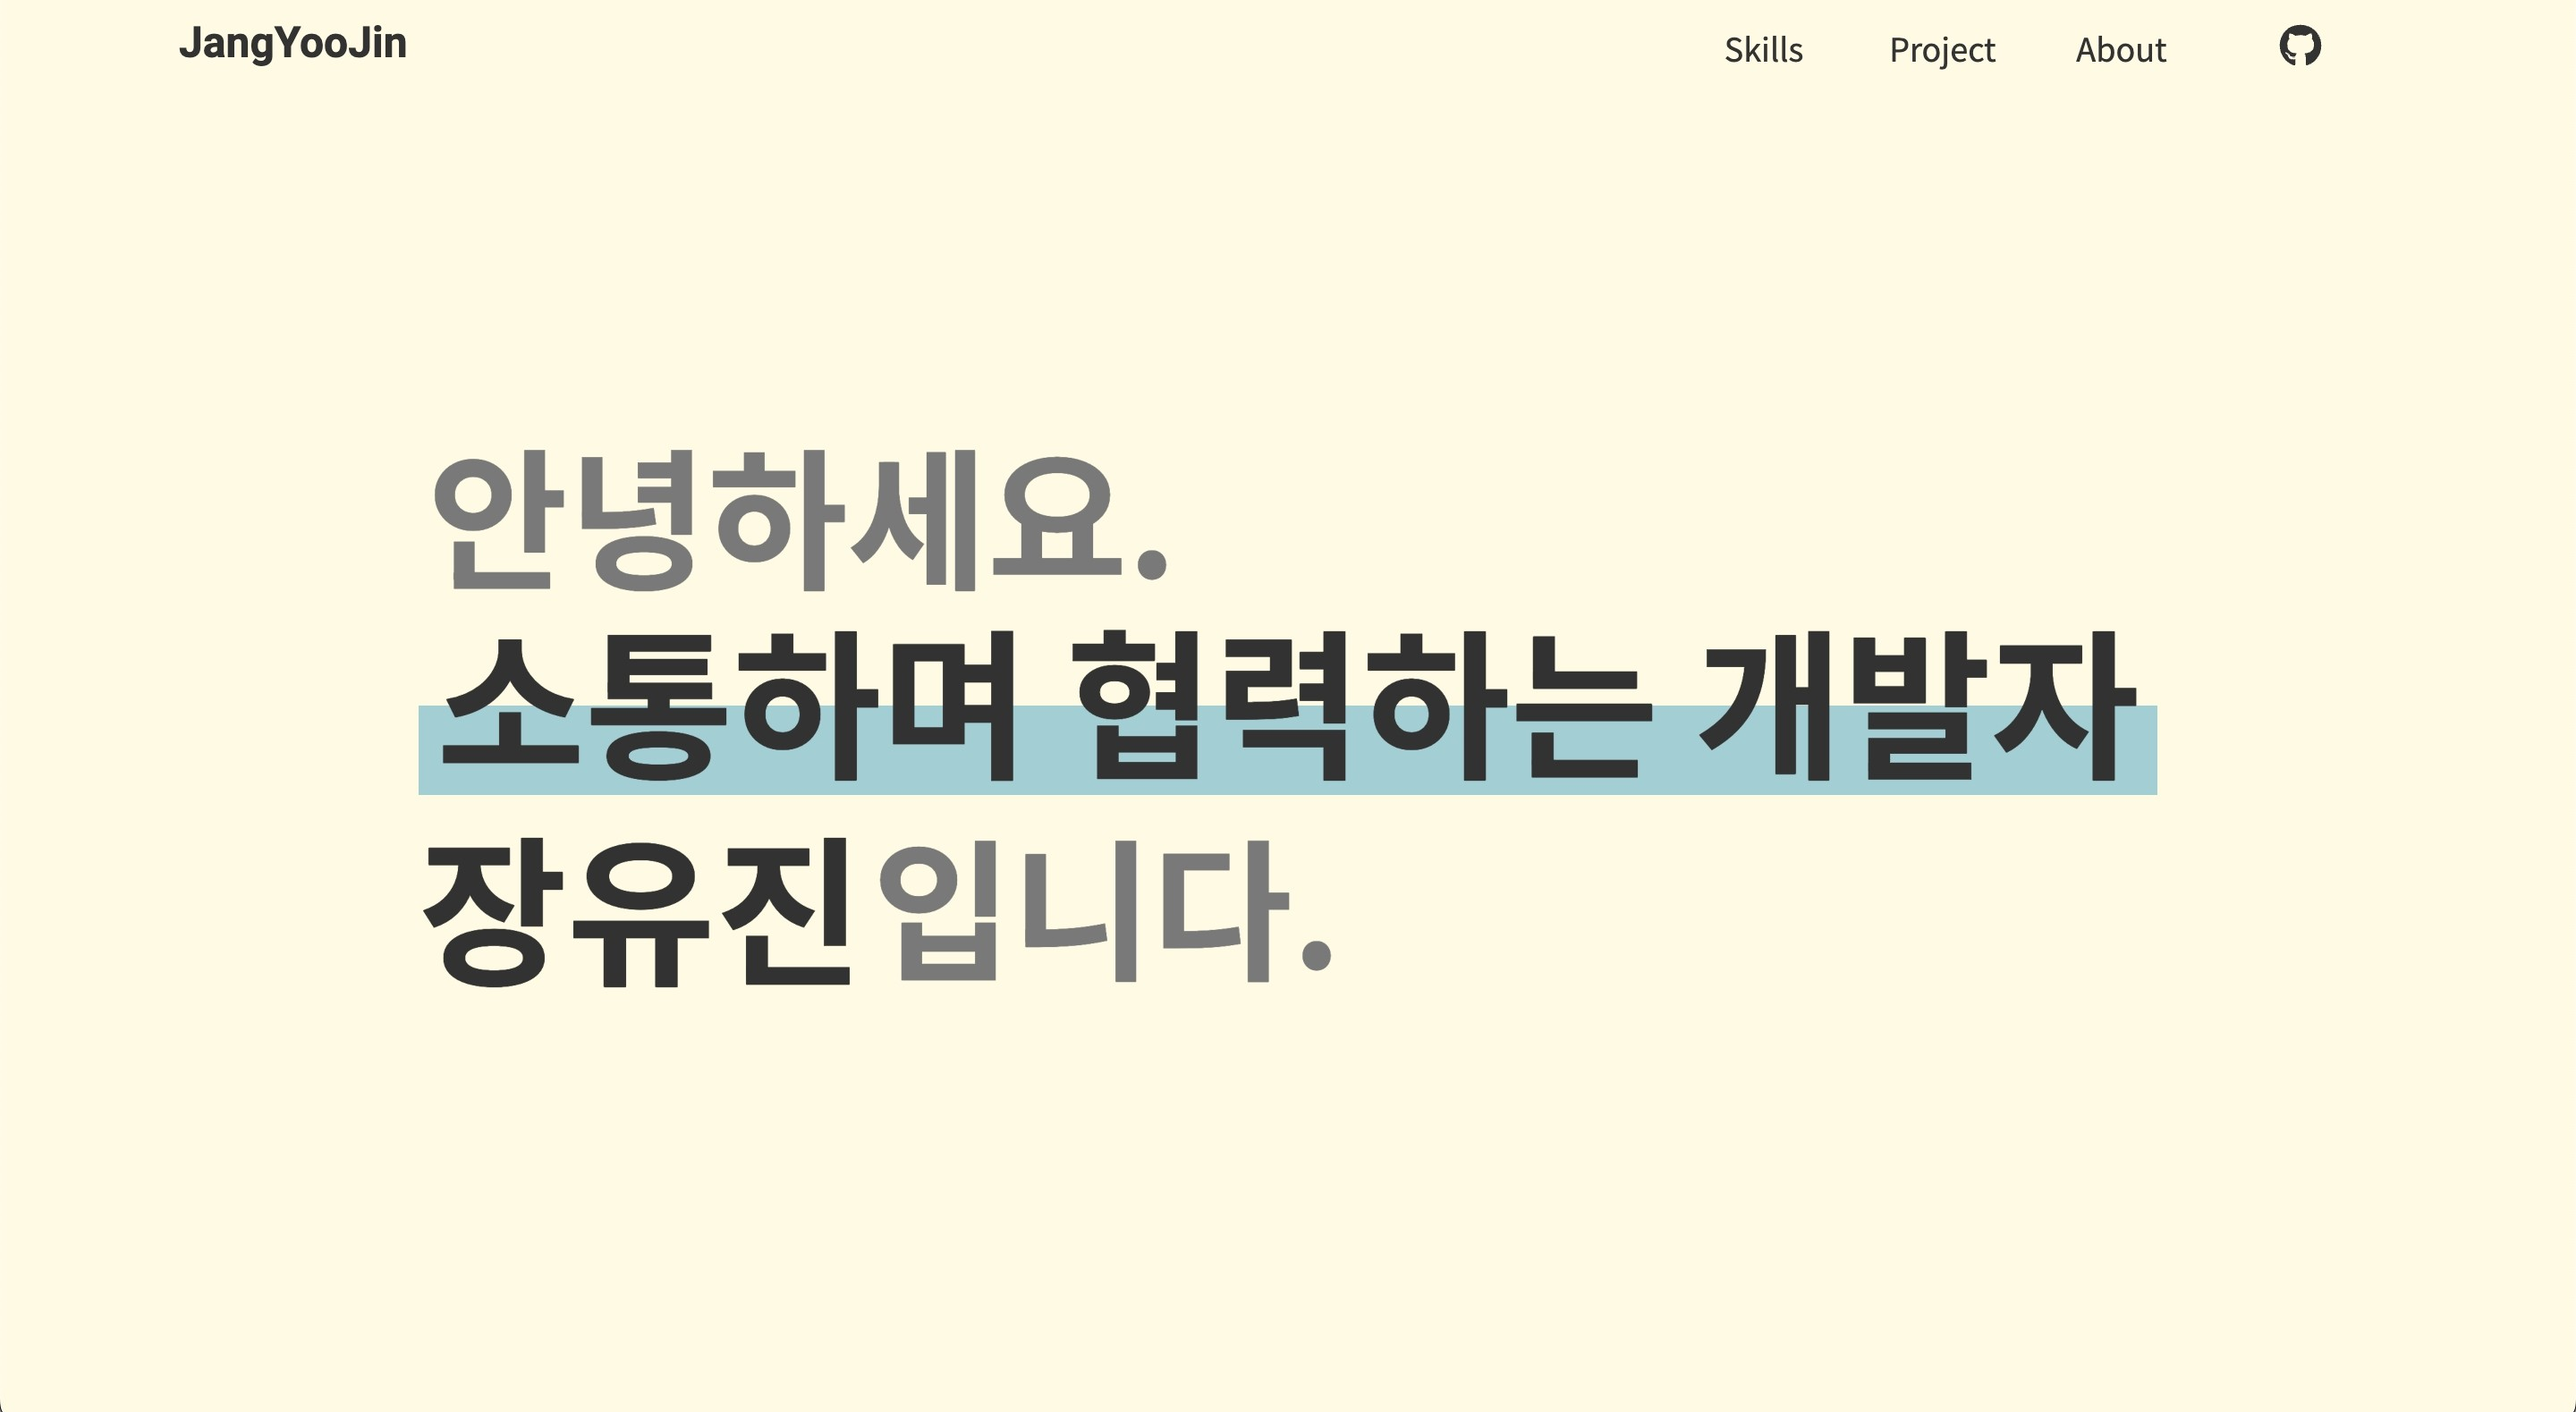
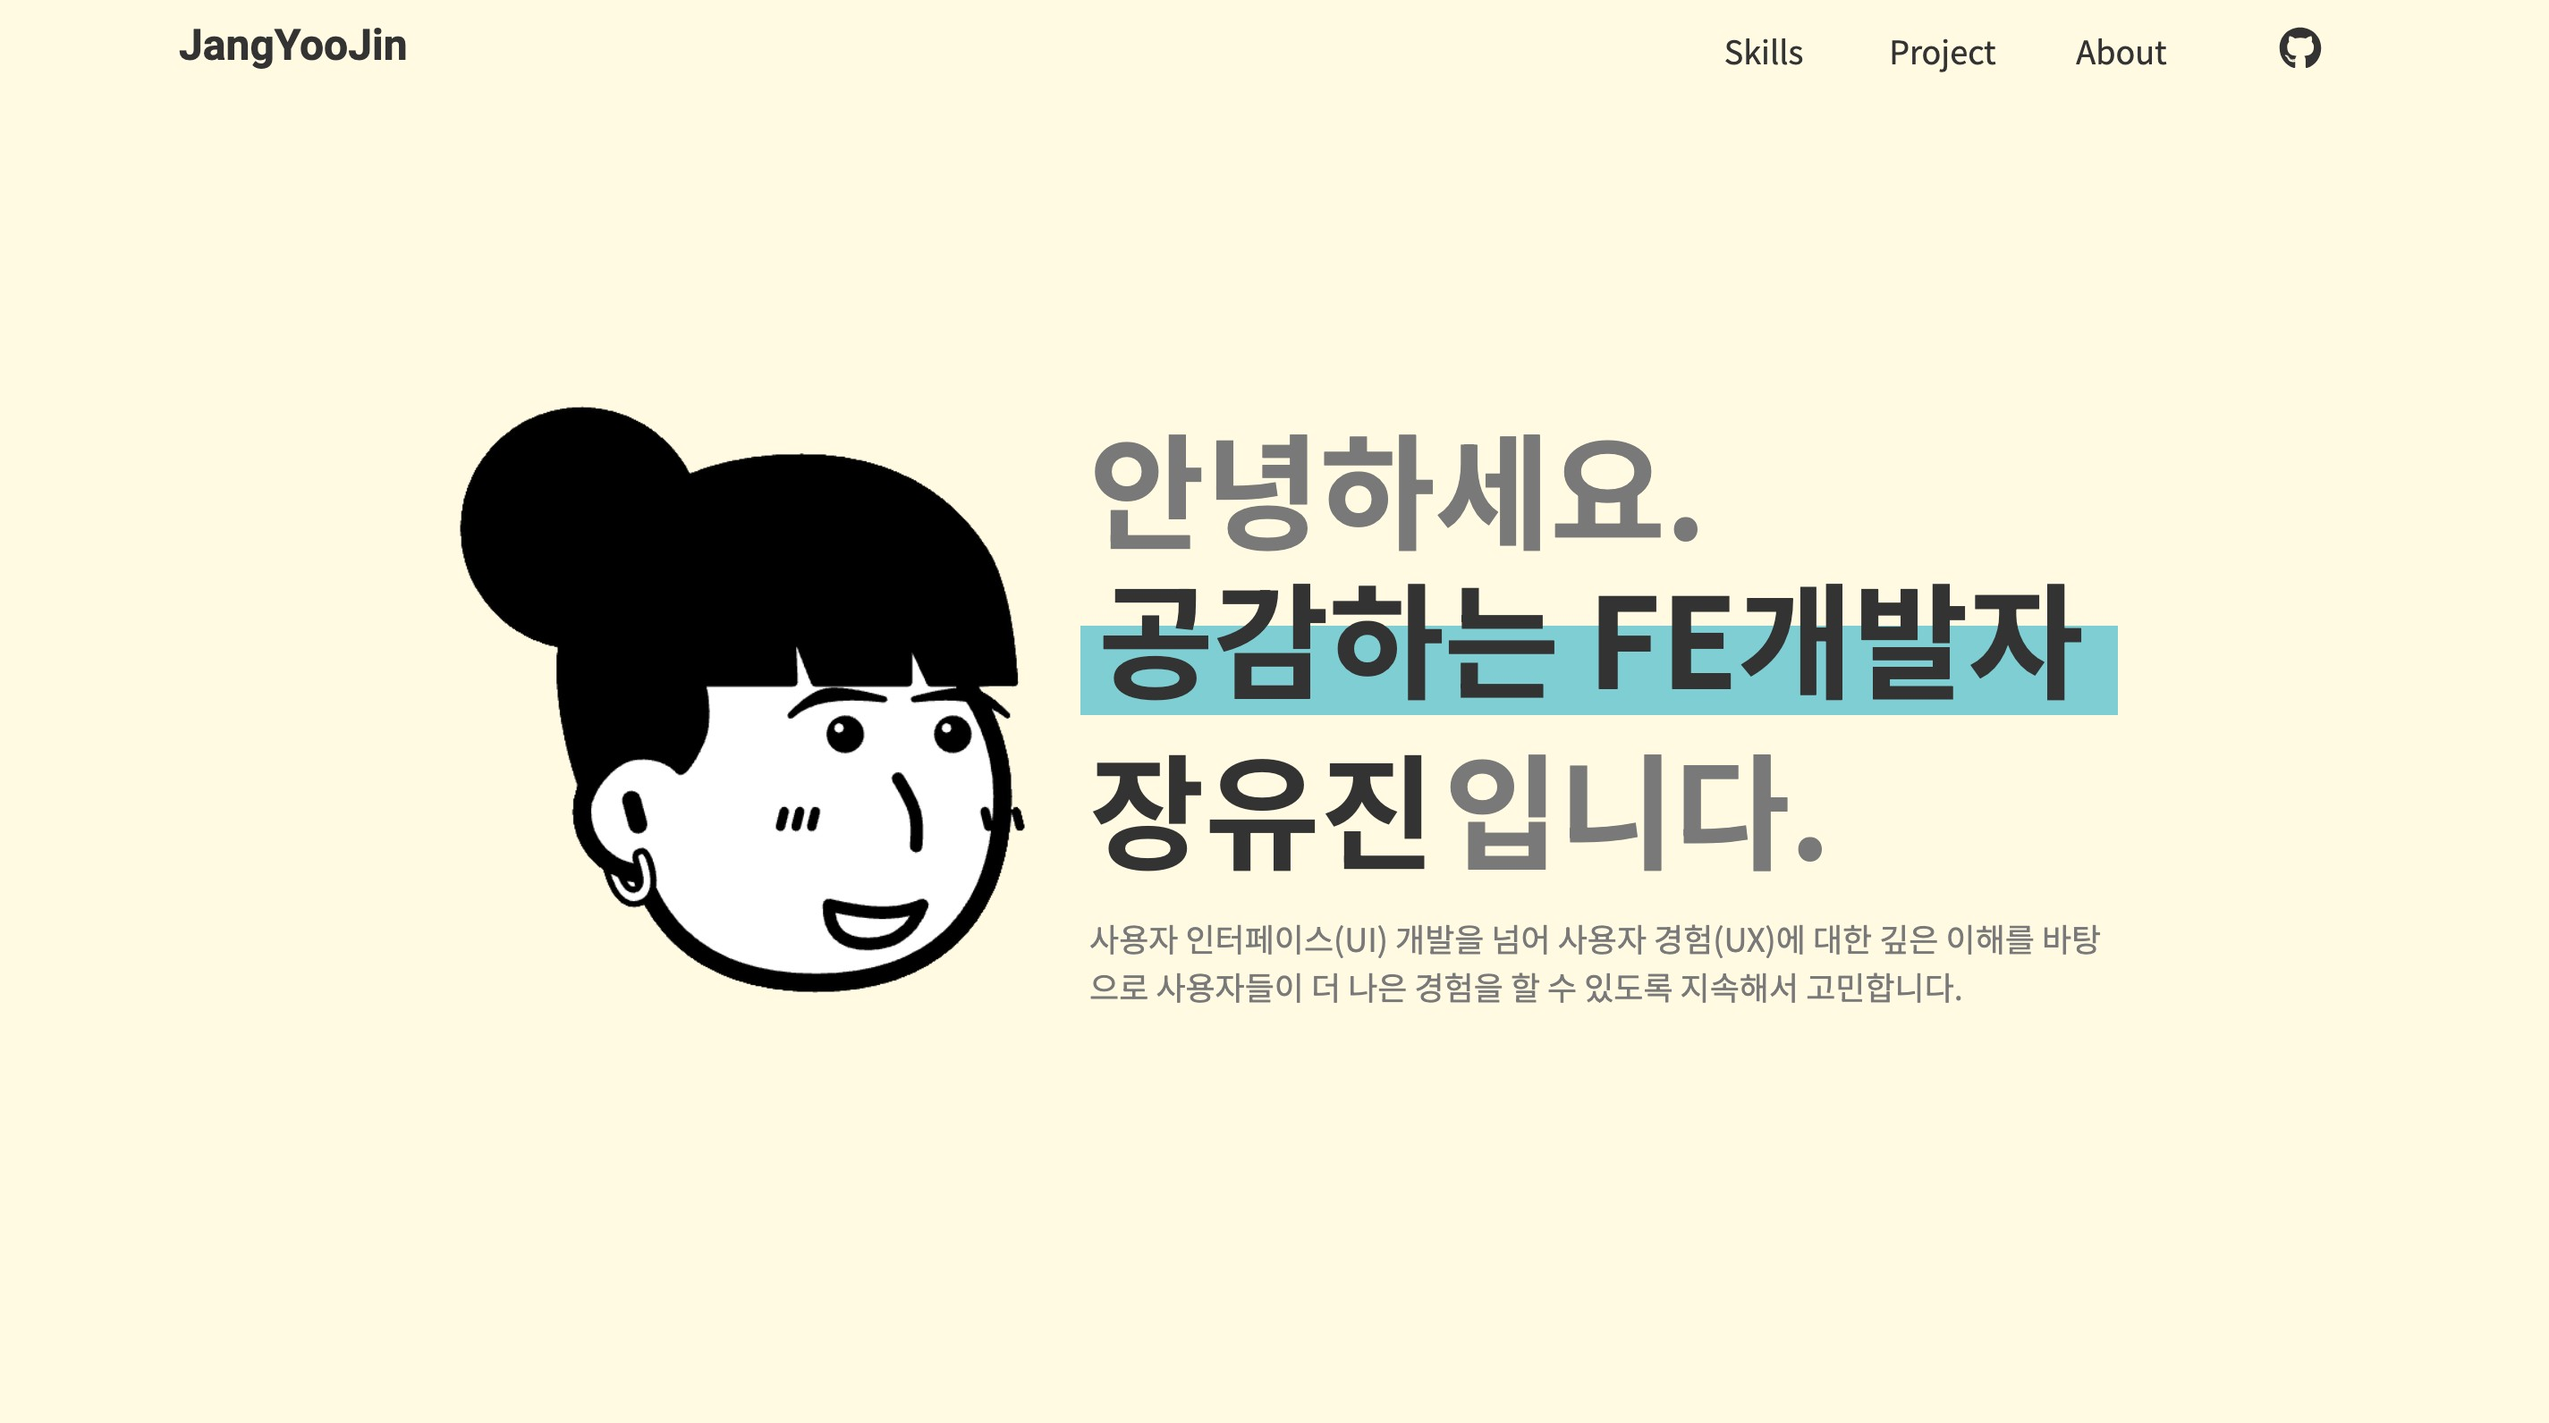
og

diff --git a/public/index.html b/public/index.html
@@ -29,7 +29,7 @@
     <meta property="og:title" content="장유진 포트폴리오" />
     <meta
       property="og:description"
-      content="안녕하세요. 소통하며 협력하는 프론트엔드 개발자 장유진입니다. "
+      content="안녕하세요. 공감하는 프론트엔드 개발자 장유진입니다. "
     />
   </head>
   <body>
